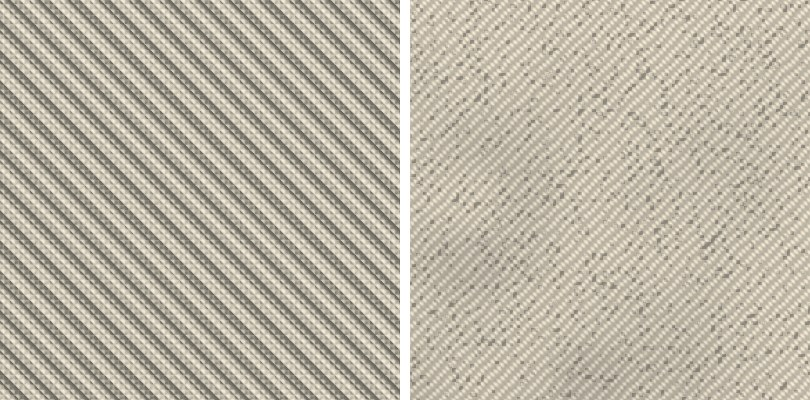
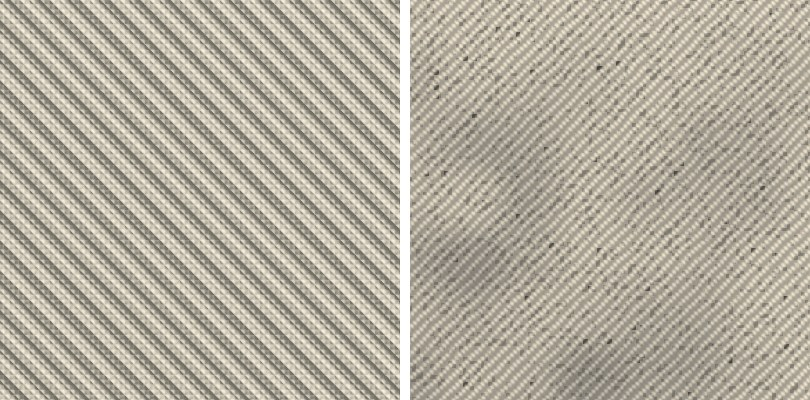
Texture loop: non-skid wear ladder in M_BoatSurface on Time and Dirt
The non-skid lines read timeK/dirtK from the shared split: groove dust, grit,
grey-tan blotches with a scuff mottle, mildew on a neglected boat; the years
yellow the moulding and polish the rib tops. Medium draws the measured 2.3 mm
ribs analytically in place of the 8 mm diamond. MI_Boat_NonSkid's colour is the
clean L0 moulding. render_levels.py mirrors the HLSL; round 5 passes colour on
all five levels.

Claude-Session: https://claude.ai/code/session_01Aobnj77KznH2T5ejnJpgQt

Changed region(s): [[0.4938, 0.0, 1.0, 1.0], [0.9568, 0.0, 1.0, 0.06]]

diff --git a/scripts/make_materials.py b/scripts/make_materials.py
@@ -1154,10 +1154,12 @@ BOAT_CODE = r"""
 // Visual V2 boat surfaces: gelcoat (clear coat), antifouling, non-skid, metals, plastic, varnished wood.
 // LP: local position (cm, boat frame), WP: world position (cm), N: world normal, LX/LY: world axes of the boat's X/Y.
 float3 n = normalize(N);
-// Non-skid: a raised diamond pattern anchored to the boat (8 mm pitch), only where NonSkid > 0.
-float k = 6.2831853 / 0.8;
-float gx = cos(LP.x * k) * sin(LP.y * k), gy = sin(LP.x * k) * cos(LP.y * k);
-float3 grad = (gx * LX + gy * LY) * 0.35 * NonSkid;
+// Non-skid: moulded ribs anchored to the boat, only where NonSkid > 0. Texture loop (docs/texloop-nonskid): Bean's J/22
+// photo measures fine diagonal ribs at 2.3 mm, about 45 degrees to the boat's axis (was an 8 mm diamond). Without the
+// detail maps (Medium) this draws them, fading out by 1.8 m before they alias; with them (High, Ultra) the map does.
+float nsPh = (LP.x + LP.y) * (6.2831853 / (1.41421356 * 0.228));
+float nsFade = (DetailOn > 0.5 ? 0.0f : 1.0f) * (1.0 - saturate((Depth - 60.0) / 120.0));
+float3 grad = (LX + LY) * (0.7071068 * 0.35 * sin(nsPh) * NonSkid * nsFade);
 // Wet below the splash line: the water level plus the band the waves and heel throw spray to; a ragged, dripping
 // edge (streaks along the hull) rather than a ruled line.
 float streak = 0.5 + 0.5 * sin(LP.x * 0.21 + sin(LP.x * 0.047) * 3.0);
@@ -1223,8 +1225,8 @@ float whiteG = saturate((min(col.r, min(col.g, col.b)) - 0.45) * 4.0);
 col *= lerp(float3(1.0, 1.0, 1.0), float3(1.0, 0.975, 0.90), timeK * gel * whiteG * saturate(sunF) * step(0.0, age));   // wear.py YELLOW; unset: as before
 rough = lerp(rough, 0.72, ox);
 coat *= 1.0 - 0.85 * ox;
-// Worn, grimy non-skid.
-col = lerp(col, col * 0.78 + 0.02, wear.x * saturate(NonSkid) * 0.7);
+// Worn, grimy non-skid: unset Age only (the livery's oxidation channel); with Age the texture loop's lines below do it.
+col = lerp(col, col * 0.78 + 0.02, (age >= 0.0 ? 0.0 : wear.x) * saturate(NonSkid) * 0.7);
 // Round 12 ("lack of texture on surfaces", "no wear and tear"): three octaves of value noise anchored to the boat (37 cm,
 // 9 cm, 2.2 cm) for grime ground into decks and non-skid where feet and water go, and a faint mottle in every gelcoat.
 float vn = 0.0, amp = 0.6, sc = 37.0;
@@ -1248,6 +1250,21 @@ col = lerp(col, col * 0.76 + float3(0.014, 0.011, 0.007), grime);
 rough = lerp(rough, min(rough + 0.18, 0.9), grime);
 coat *= 1.0 - 0.6 * grime;
 col *= 1.0 + 0.05 * (vn - 0.5) * (1.0 - Metal) * (1.0 - Grain);
+// Texture loop, non-skid (docs/texloop-nonskid; Tools/texloop/nonskid/render_levels.py mirrors these lines): the years
+// yellow the moulding a little; dirt gathers in grey-tan blotches with a 1.5 cm scuff mottle where feet go, and on
+// Medium (no cavity map) as an even dust in the pattern.
+float nsK = saturate(NonSkid) * up * (1.0 - Metal);
+col *= lerp(float3(1.0, 1.0, 1.0), float3(1.0, 0.975, 0.90), 0.5 * timeK * nsK * step(0.0, age));
+float2 sq = LP.xy / 1.5 + float2(11.0, 0.0), sqi = floor(sq), sqf = frac(sq);
+sqf = sqf * sqf * (3.0 - 2.0 * sqf);
+float sc00 = frac(sin(dot(sqi, float2(12.99, 78.23))) * 43758.5), sc10 = frac(sin(dot(sqi + float2(1, 0), float2(12.99, 78.23))) * 43758.5);
+float sc01 = frac(sin(dot(sqi + float2(0, 1), float2(12.99, 78.23))) * 43758.5), sc11 = frac(sin(dot(sqi + float2(1, 1), float2(12.99, 78.23))) * 43758.5);
+float nsScuff = saturate((lerp(lerp(sc00, sc10, sqf.x), lerp(sc01, sc11, sqf.x), sqf.y) - 0.5) * 1.6 + 0.5);
+float nsBlot = saturate((vn - 0.60 + 0.22 * dirt) * 3.0) * smoothstep(0.2, 0.6, dirt) * (0.35 + 1.3 * nsScuff);
+const float3 nsDirt = float3(0.205, 0.198, 0.178);       // grey-tan lake dust and clay (Bean's foredeck photo)
+col = lerp(col, nsDirt, saturate((0.3 + 0.45 * dirt) * nsBlot) * nsK);
+col = lerp(col, nsDirt, 0.55 * sqrt(saturate(dirt)) * 0.35 * (DetailOn > 0.5 ? 0.0f : 1.0f) * nsK);
+rough = lerp(rough, min(rough + 0.1, 0.9), nsBlot * nsK);
 // Wood (Grain 1): straight grain along the part's length with slow wander, a varnished tiller's or a weathered toe rail's.
 float gw = LP.y * 0.9 + LP.z * 1.3 + 2.5 * sin(LP.x * 0.021) + 1.2 * sin(LP.x * 0.083 + LP.y);
 float ring = 0.5 + 0.5 * sin(gw * 6.0 + 4.0 * vn);
@@ -1391,11 +1408,18 @@ if (DetailOn > 0.5 && surf > 0)
     float4 m = m0 * bw.x + m1 * bw.y + m2 * bw.z;
     float2 d0 = (n0.xy * 2.0 - 1.0) * strength, d1 = (n1.xy * 2.0 - 1.0) * strength, d2 = (n2.xy * 2.0 - 1.0) * strength;
     grad -= bw.x * (d0.x * a0 + d0.y * b0) + bw.y * (d1.x * a1 + d1.y * b1) + bw.z * (d2.x * LX + d2.y * LY);
-    if (surf == 2)                       // non-skid: grime in the grooves (as dirty as the boat), tops worn smooth
+    if (surf == 2)                       // non-skid (texture loop): dust packed in the grooves, grit, mildew; the years polish the tops
     {
         cav = (1.0 - m.r) * fadeD;
-        col *= lerp(1.0, lerp(0.70 + 0.2 * (1.0 - dirt), 1.06, m.r), fadeD);
-        rough = saturate(rough + fadeD * (0.12 * (1.0 - m.r) - 0.15 * m.g));
+        col *= lerp(1.0, 0.80 + 0.24 * m.r, fadeD);                                   // the grooves' own shade
+        col = lerp(col, nsDirt, 0.55 * sqrt(saturate(dirt)) * cav);
+        float gh = frac(sin(dot(floor(LP.xy / 0.09), float2(27.1, 61.7))) * 43758.5);    // 0.9 mm grit cells
+        col = lerp(col, float3(0.11, 0.105, 0.09), 0.6 * step(1.0 - 0.30 * dirt, gh) * (1.0 - 0.6 * m.r) * fadeD);
+        float mh = frac(sin(dot(floor(LP.xy / 0.12), float2(19.3, 47.9))) * 43758.5);    // 1.2 mm mildew cells
+        col = lerp(col, float3(0.025, 0.026, 0.022), 0.85 * step(1.0 - 0.12 * saturate(dirt * 2.2 - 1.2), mh) * cav);
+        float top = m.g * saturate(timeK * 1.5) * fadeD;
+        col = lerp(col, lerp(col, C.rgb, 0.5) * 1.05, top);
+        rough = saturate(rough + fadeD * (0.12 * (1.0 - m.r) - 0.15 * m.g) + 0.2 * dirt * cav - 0.18 * top);
     }
     else if (surf == 3 || surf == 4)     // brushing streaks in the gloss; stainless tea-stains in its pits first
     {
@@ -1706,8 +1730,9 @@ def build_boat_surface(name, bend, packed=False):
 BOAT_LIBRARY = {
     "Topsides": ("M_BoatSurface", (0.80, 0.80, 0.77), 0.22, 0.0, 1.0, 0.0, 0.10),     # white gelcoat (docs/gelcoat: 0.30 read matte)
     "Deck": ("M_BoatSurface", (0.80, 0.80, 0.76), 0.28, 0.0, 1.0, 0.0, 0.10),
-    # Graphics G6: the club J/22s' non-skid is beige with grime worked into it (Bean's lesson photos), not white.
-    "NonSkid": ("M_BoatSurface", (0.56, 0.52, 0.43), 0.66, 0.0, 0.0, 1.0, 0.35),  # the raised pattern breaks up any clear-coat gloss: a mirror lobe read as water in shaded cockpits
+    # Graphics G6: the club J/22s' non-skid is beige, not white (Bean's lesson photos). Texture loop (docs/texloop-nonskid):
+    # this is the clean moulding (L0, measured beside a white gelcoat of sRGB 215); Age and Care now work the grime in.
+    "NonSkid": ("M_BoatSurface", (0.75, 0.68, 0.56), 0.66, 0.0, 0.0, 1.0, 0.35),  # the raised pattern breaks up any clear-coat gloss: a mirror lobe read as water in shaded cockpits
     "Bootstripe": ("M_BoatSurface", (0.010, 0.018, 0.080), 0.25, 0.0, 1.0, 0.0, 0.05),  # navy gelcoat stripes
     "CoveStripe": ("M_BoatSurface", (0.010, 0.018, 0.080), 0.25, 0.0, 1.0, 0.0, 0.05),
     "Antifouling": ("M_BoatSurface", (0.015, 0.022, 0.050), 0.80, 0.0, 0.0, 0.0, 0.60),  # ablative bottom paint

diff --git a/Tools/texloop/nonskid/render_levels.py b/Tools/texloop/nonskid/render_levels.py
@@ -26,26 +26,28 @@ BEFORE = ARGS[ARGS.index("--before") + 1] if "--before" in ARGS else None
 REFS = json.load(open(os.path.join(ROOT, "Tools", "texloop", "refs", "nonskid.json")))
 LEVELS = ["L0", "L1", "L2", "L3", "L4"]
 TILE_MM = 100.0
-C_NONSKID = np.array([0.56, 0.52, 0.43])          # MI_Boat_NonSkid's colour (make_materials.py BOAT_MATERIALS)
+C_NONSKID = np.array([0.56, 0.52, 0.43])          # MI_Boat_NonSkid's colour before the texture loop (BOAT_LIBRARY)
 
 
 # ------------------------------------------------------------------ wear numbers
-def time_k(age):
-    """Provisional Time (care can't undo it); replaced by Tools/texloop/wear.py when the shared PR lands."""
-    return min(1.0, 0.25 * (1 - math.exp(-age / 0.5)) + 0.75 * min(age / 30.0, 1.0))
+sys.path.insert(0, os.path.join(ROOT, "Tools", "texloop"))
+import wear  # noqa: E402  (Tools/texloop/wear.py: the same formulas as BOAT_CODE)
+
+
+def time_k(age, care=1.0):
+    return wear.time_k(age, care)
 
 
 def dirt_k(age, care):
-    """Provisional Dirt (care removes it): mostly (1 - care), quick start in the first months."""
-    return (1 - 0.85 * care) * (1 - math.exp(-age / 0.4)) * min(1.0, 0.35 + age / 15.0)
+    return wear.dirt_k(age, care)
 
 
-def age_k(age, care):                              # today's single number
-    return min(age / 20.0, 1.0) * (1 - 0.6 * care)
+def age_k(age, care):                              # before the split
+    return wear.age_k(age, care)
 
 
-def dirt_today(age, care):                         # today's grime weight
-    return min(1.0, 0.15 + age / 18.0) * (1 - 0.65 * care)
+def dirt_today(age, care):                         # the grime weight before the split
+    return wear.grime(age, care, split=False)
 
 
 # ------------------------------------------------------------------ helpers
@@ -143,29 +145,37 @@ def pigment_from_target():
     return np.clip(m @ xyz, 0, 1)
 
 
-def shade_after(M, vn, scuff, spk, spk2, age, care):
-    """Albedo and roughness of the new non-skid lines (mirrors BOAT_CODE surf == 2 and the grime line)."""
+def shade_after(M, vn, scuff, spk, spk2, age, care, detail=True):
+    """Albedo and roughness of M_BoatSurface's non-skid after the texture loop: the same steps, in the same order, as
+    BOAT_CODE (shared grime line, the non-skid block after it, then the surf == 2 detail branch)."""
     tk, dk = time_k(age), dirt_k(age, care)
-    cav, polish = M[..., 0:1], M[..., 1:2]
-    col = AFTER["pigment"] * (1 + (np.array(AFTER["yellow"]) - 1) * 0.5 * tk)
-    # blotches where feet and water go: the shader's grime noise, wider and darker as Dirt grows
-    # plus a fine scuff mottle (1.5 cm) that only shows where the blotches are
-    blot = np.clip((vn[..., None] - 0.60 + 0.22 * dk) * 3.0, 0, 1) * smoothstep(0.2, 0.6, dk)
-    blot = blot * (0.35 + 1.3 * scuff[..., None])
-    col = col + (np.array(AFTER["dirt_col"]) - col) * np.clip((0.3 + 0.45 * dk) * blot, 0, 1)
-    # dust and grime packed in the grooves (cavity R: 0 deep in a groove)
-    groove = (1 - cav) * min(1.0, math.sqrt(dk))
-    col = col + (np.array(AFTER["dirt_col"]) - col) * 0.55 * groove
-    # Time polishes the rib tops: the grime wears off them and they go a touch lighter and smoother
-    top = polish * min(1.0, tk * 1.5)
-    col = col * (1 + 0.05 * top) - (col - AFTER["pigment"]) * 0.5 * top
-    # grit: dark specks of packed dirt (0.5-2 mm) caught in the grooves, more as Dirt grows
-    grit = (spk2[..., None] > 1 - 0.30 * dk) * (1 - cav * 0.6)
-    col = col + (np.array(AFTER["grit_col"]) - col) * 0.6 * grit
-    # neglect: black mildew specks in the grooves
-    mil = (spk[..., None] > 1 - 0.12 * max(0.0, dk * 2.2 - 1.2)) * (1 - cav)
-    col = col + (np.array(AFTER["mildew_col"]) - col) * 0.85 * mil
-    rough = np.clip(0.6 + 0.2 * dk * (1 - cav[..., 0]) + 0.1 * blot[..., 0] - 0.18 * top[..., 0], 0, 1)
+    pig = AFTER["pigment"]
+    dcol = np.array(AFTER["dirt_col"])
+    col = np.broadcast_to(pig, M.shape[:2] + (3,)).copy()
+    # shared grime (deckish 1, NonSkid 1), then the faint mottle
+    grime = np.clip(vn * 1.8 - 0.6, 0, 1)[..., None] * dk
+    col = col + (col * 0.76 + np.array([0.014, 0.011, 0.007]) - col) * grime
+    rough = 0.66 + (min(0.66 + 0.18, 0.9) - 0.66) * grime[..., 0]
+    col = col * (1 + 0.05 * (vn[..., None] - 0.5))
+    # non-skid block: yellowing, blotches with the scuff mottle, Medium's even dust
+    col = col * (1 + (np.array(AFTER["yellow"]) - 1) * 0.5 * tk)
+    blot = (np.clip((vn - 0.60 + 0.22 * dk) * 3.0, 0, 1) * smoothstep(0.2, 0.6, dk) * (0.35 + 1.3 * scuff))[..., None]
+    col = col + (dcol - col) * np.clip((0.3 + 0.45 * dk) * blot, 0, 1)
+    if not detail:
+        col = col + (dcol - col) * 0.55 * math.sqrt(dk) * 0.35
+    rough = rough + (np.minimum(rough + 0.1, 0.9) - rough) * blot[..., 0]
+    if detail:                                     # surf == 2 detail branch (fadeD 1 at these distances)
+        mr, mg = M[..., 0:1], M[..., 1:2]
+        cav = 1 - mr
+        col = col * (0.80 + 0.24 * mr)
+        col = col + (dcol - col) * 0.55 * math.sqrt(dk) * cav
+        grit = (spk2[..., None] > 1 - 0.30 * dk) * (1 - 0.6 * mr)
+        col = col + (np.array(AFTER["grit_col"]) - col) * 0.6 * grit
+        mil = (spk[..., None] > 1 - 0.12 * max(0.0, min(1.0, dk * 2.2 - 1.2))) * cav
+        col = col + (np.array(AFTER["mildew_col"]) - col) * 0.85 * mil
+        top = mg * min(1.0, tk * 1.5)
+        col = col + ((col + pig) * 0.5 * 1.05 - col) * top
+        rough = np.clip(rough + 0.12 * cav[..., 0] - 0.15 * mg[..., 0] + 0.2 * dk * cav[..., 0] - 0.18 * top[..., 0], 0, 1)
     return col, rough
 
 
@@ -194,7 +204,7 @@ def diamond8_normal(size_px, ppm):
 def light(nrm, cav, rough, sun):
     """Overcast: sky over the hemisphere with the grooves occluded. Sun: 20 degrees up, plus sky fill."""
     nz = np.clip(nrm[..., 2], 0, 1)
-    ao = 0.78 + 0.22 * cav
+    ao = 1.0                    # the game has no AO at this scale; the albedo carries the grooves' shade
     if not sun:
         return (0.55 + 0.45 * nz) * ao
     s = np.array([math.cos(math.radians(20)) * math.cos(math.radians(225)), math.cos(math.radians(20)) * math.sin(math.radians(225)), math.sin(math.radians(20))])
@@ -218,7 +228,7 @@ def render(level, ppm, size_px, maps, before=False, sun=False, seed=7):
         spk = hash2(np.floor(X * 10 / 1.2), np.floor(Y * 10 / 1.2), (19.3, 47.9))   # 1.2 mm speckle cells
         scuff = value_noise1(X / 1.5 + 11.0, Y / 1.5)            # one octave, 1.5 cm: scuff trails
         scuff = np.clip((scuff - 0.5) * 1.6 + 0.5, 0, 1)
-        spk2 = hash2(np.floor(X * 10 / 0.9) + 3.0, np.floor(Y * 10 / 0.9), (27.1, 61.7))  # 0.9 mm grit cells
+        spk2 = hash2(np.floor(X * 10 / 0.9), np.floor(Y * 10 / 0.9), (27.1, 61.7))  # 0.9 mm grit cells
         col, rough = shade_after(Ms, vn, scuff, spk, spk2, age, care)
     nrm /= np.linalg.norm(nrm, axis=-1, keepdims=True)
     lit = col * light(nrm, Ms[..., 0], rough, sun)[..., None]

diff --git a/Tools/texloop/nonskid/make_sheet.py b/Tools/texloop/nonskid/make_sheet.py
@@ -33,7 +33,7 @@ cols = ["Reference photo", "Before: 20 cm, low sun", "After: 20 cm, low sun", "B
 W, H = 190 + CELL * 5 + 6 * 10, 90 + (CELL + 64) * 6
 sheet = Image.new("RGB", (W, H), (245, 244, 240))
 d = ImageDraw.Draw(sheet)
-d.text((16, 14), "Non-skid deck, five wear levels: today's main (before) and texture-loop round 4 (after, numpy stand-in for the shader)", font=FB, fill=(20, 20, 20))
+d.text((16, 14), "Non-skid deck, five wear levels: today's main (before) and texture loop round 5 (after: the new shader lines, numpy mirror)", font=FB, fill=(20, 20, 20))
 d.text((16, 42), "Pattern measured on Bean's J/22 photo: 2.3 mm diagonal ribs (before: 1.8 mm pyramids + 8 mm diamond). Colours vs a white gelcoat of sRGB 215.", font=F, fill=(60, 60, 60))
 for i, c in enumerate(cols):
     d.text((190 + 10 + i * (CELL + 10), 66), c, font=F, fill=(30, 30, 30))

diff --git a/docs/texloop-nonskid/README.md b/docs/texloop-nonskid/README.md
@@ -1,4 +1,4 @@
-# Texture loop: non-skid deck (round 4)
+# Texture loop: non-skid deck (round 5)
 
 Plan: the boat texture and wear loop (https://claude.ai/artifact/Bq6JXirCL49khtgLL76h3q), surface 3 of the first five.
 
@@ -13,25 +13,31 @@ Plan: the boat texture and wear loop (https://claude.ai/artifact/Bq6JXirCL49khtg
   M_BoatSurface reads it unchanged.
 - **Targets.** `Tools/texloop/refs/nonskid.json`: L2 is measured on three of Bean's photos (colour against the nearby
   white gelcoat set to sRGB 215); L0, L1, L3 and L4 are derived from L2 until club close-ups exist.
-- **Wear ladder.** `Tools/texloop/nonskid/render_levels.py` shades the five levels in numpy with the shader's own grime
-  noise: Dirt puts dust in the grooves, grime blotches with a 1.5 cm scuff mottle, grit specks, and on a neglected boat
-  black mildew specks; Time yellows the gelcoat and polishes the rib tops. Its Time and Dirt are provisional until the
-  shared `Tools/texloop/wear.py` lands, and the HLSL port of these lines into BOAT_CODE follows that PR.
+- **Wear ladder (round 5, in the game).** M_BoatSurface's non-skid lines in `scripts/make_materials.py` (BOAT_CODE) now
+  read the shared Time and Dirt numbers (`Tools/texloop/wear.py`): Dirt packs dust into the grooves, adds grit specks,
+  grey-tan blotches with a 1.5 cm scuff mottle, and on a neglected boat black mildew specks; Time yellows the moulding a
+  little and polishes the rib tops. Medium (no detail maps) draws the 2.3 mm ribs analytically, fading out by 1.8 m, in
+  place of the old 8 mm diamond, and gets the groove dust as an even tint. MI_Boat_NonSkid's colour is now the clean L0
+  moulding (0.75, 0.68, 0.56 linear; was 0.56, 0.52, 0.43 with grime baked into the colour).
+  `Tools/texloop/nonskid/render_levels.py` mirrors those lines step for step in numpy; change both together.
+- **Not changed:** the hero J/22 (`import_j22_hero.py` DETAIL_CODE) keeps its baked style presets; it already uses the
+  new rib map.
 
-## Round 4 numbers (1 m swatch, overcast, colour distance to target; pass is 6 or less)
+## Round 5 numbers (1 m swatch, overcast, colour distance to target; pass is 6 or less)
 
 | Level | Before (main) | After |
 |---|---|---|
-| L0 new | 10.8 | 0.0 |
-| L1 months | 9.4 | 0.5 |
-| L2 club | 6.7 | 3.5 |
-| L3 old, kept | 12.1 | 1.4 |
-| L4 neglected | 2.0 | 4.7 |
+| L0 new | 7.8 | 0.1 |
+| L1 months | 6.4 | 0.5 |
+| L2 club | 4.1 | 4.7 |
+| L3 old, kept | 9.3 | 1.6 |
+| L4 neglected | 4.4 | 4.9 |
 
-Spread is still short of the photo on L2 (5.3 against 10.4) and dark cover on L4 (0.30 against 0.40). Before was the
+Spread is still short of the photo on L2 (6.3 against 10.4) and dark cover on L4 (0.27 against 0.40). "Before" is
+main before the texture loop (old maps, old lines); neither side has the engine's ambient occlusion, as in the game. Before was the
 same flat beige-grey at every level; the ladder now ranks in order.
 
-`L*_close_before_after.jpg`: 20 cm at 4 px/mm under a low sun, main on the left, round 4 on the right.
+`L*_close_before_after.jpg`: 20 cm at 4 px/mm under a low sun, main on the left, round 5 on the right.
 
 Reproduce: `python3 Tools/boats/make_detail_textures.py`, then
 `python3 Tools/texloop/nonskid/render_levels.py <out> --before <dir with main's two NonSkid PNGs>`.
